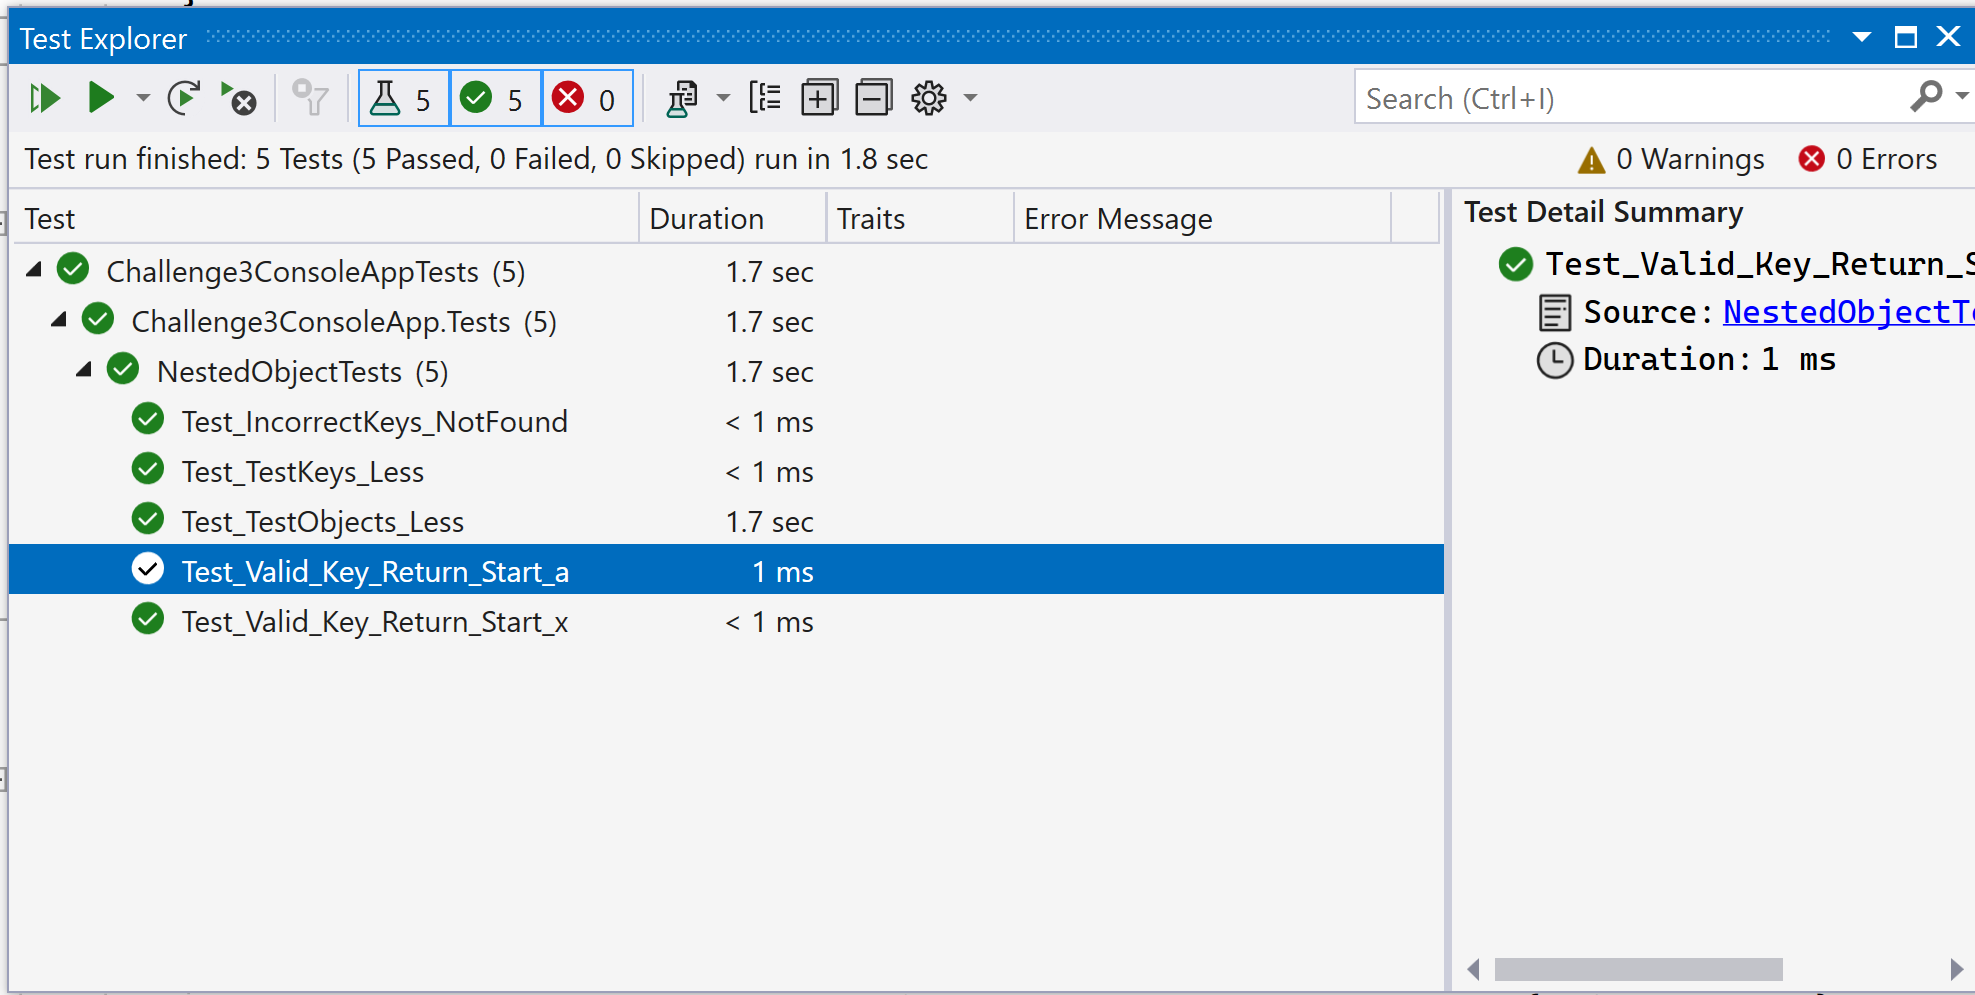
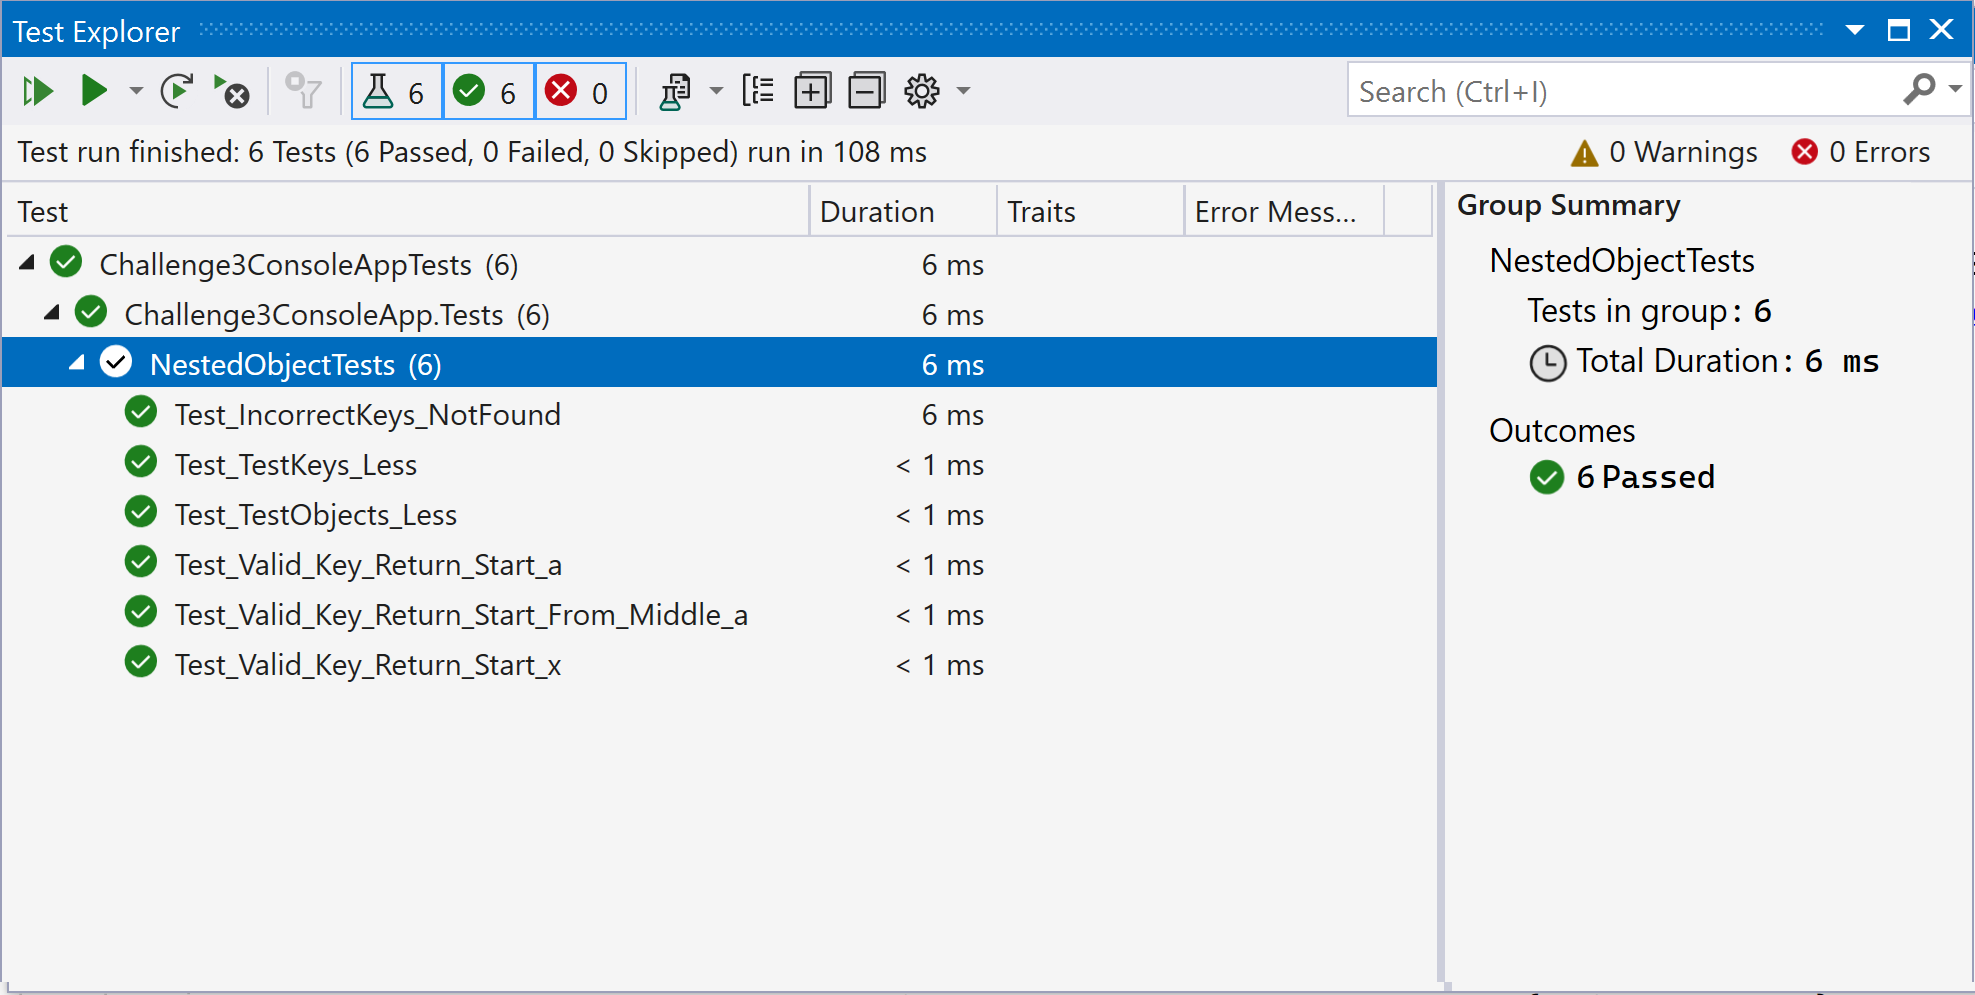
Result Images Added
Result Images Added By Santosh Raundhal

diff --git a/q3-nested-object-select/Challenge3ConsoleApp/NestedObjectTests.cs b/q3-nested-object-select/Challenge3ConsoleApp/NestedObjectTests.cs
@@ -1,0 +1,147 @@
+using Microsoft.VisualStudio.TestTools.UnitTesting;
+
+namespace Challenge3ConsoleApp.Tests
+{
+	[TestClass()]
+	public class NestedObjectTests
+	{
+		NestedObject _nestedObjectInstance;
+
+		[TestInitialize]
+		public void Initialize()
+		{
+			_nestedObjectInstance = new NestedObject();
+		}
+
+		#region "PRIVATE HELPER METHODS"
+		//Helper Methods To Create Test Objects Randomly.
+		private KeyValuePair<string, object> createTestObjects(char startChar, int count)
+		{
+			var currentChar = getLastObjectChar(startChar, count);
+			var key = currentChar.ToString();
+			var testObject = new KeyValuePair<string, object>();
+
+			//Start The Iterations From Backward
+			for (var i = count; i > 0; i--) 
+			{
+				//If This Is Last Object
+				if (i == count)
+					testObject = new KeyValuePair<string, object>(currentChar.ToString(), getNextChar(currentChar).ToString());
+				else
+					testObject = new KeyValuePair<string, object>(currentChar.ToString(), testObject);
+
+				currentChar = getPrevChar(currentChar);
+			}
+
+			return testObject;
+		}
+
+		private char getNextChar(char ch)
+		{
+			return (ch == 'z') ? 'a' : (char)((int)ch + 1);
+		}
+
+		private char getPrevChar(char ch)
+		{
+			return (ch == 'a') ? 'z' : (char)((int)ch - 1);
+		}
+
+		//This is Last But One Char
+		private char getLastObjectChar(char ch, int count)
+		{
+			//(char)((int)startChar + count - 1);
+			if (((int)ch + count - 1) > 122)
+			{
+				var remaining = 122 - ((int)ch + count - 1);
+				var charLast = 96 + Math.Abs(remaining);
+				return (char)charLast;
+			}
+
+			return (char)((int)ch + count - 1);
+		}
+
+		private string createTestKeys(char startChar, int count)
+		{
+			var keys = new List<string>();
+
+			var currentChar = startChar;
+			for (var i = 0; i < count; i++)
+			{
+				keys.Add(currentChar.ToString());
+				currentChar = getNextChar(currentChar);
+			}
+
+			return string.Join("/", keys).Trim();
+		}
+		#endregion
+
+		[TestMethod()]
+		public void Test_Valid_Key_Return_Start_a()
+		{
+			var objects = createTestObjects('a', 3);
+			var keys = createTestKeys('a', 3);
+
+			var searchKeyValue = _nestedObjectInstance.GetSearchKeyValue(objects, keys);
+
+			Assert.AreEqual(searchKeyValue, "d", "Valid Value d Should Be Returned.");
+		}
+
+		[TestMethod()]
+		public void Test_Valid_Key_Return_Start_x()
+		{
+			var objects = createTestObjects('x', 3);
+			var keys = createTestKeys('x', 3);
+
+			var searchKeyValue = _nestedObjectInstance.GetSearchKeyValue(objects, keys);
+
+			Assert.AreEqual(searchKeyValue, "a", "Valid Value a Should Be Returned.");
+		}
+
+		[TestMethod()]
+		public void Test_TestObjects_Less()
+		{
+			var objects = createTestObjects('a', 3);
+			var keys = createTestKeys('a', 5);
+
+			var searchKeyValue = _nestedObjectInstance.GetSearchKeyValue(objects, keys);
+
+			Assert.IsTrue(string.IsNullOrEmpty(searchKeyValue), "If Object and Key Count does not match, it should return Empty.");
+		}
+
+		[TestMethod()]
+		public void Test_TestKeys_Less()
+		{
+			var objects = createTestObjects('a', 5);
+			var keys = createTestKeys('a', 3);
+
+			var searchKeyValue = _nestedObjectInstance.GetSearchKeyValue(objects, keys);
+
+
+			Assert.IsFalse(string.IsNullOrEmpty(searchKeyValue), "If Object and Key Count does not match, it should return Empty.");
+		}
+
+		[TestMethod()]
+		public void Test_IncorrectKeys_NotFound()
+		{
+			var objects = createTestObjects('a', 4);
+			var keys = createTestKeys('x', 4);
+
+			var searchKeyValue = _nestedObjectInstance.GetSearchKeyValue(objects, keys);
+
+			//Assert.AreEqual(searchKeyValue, string.Empty);
+			Assert.IsTrue(string.IsNullOrEmpty(searchKeyValue), "If Incorrect Keys Provided, it should return Empty.");
+		}
+
+		[TestMethod()]
+		public void Test_Valid_Key_Return_Start_From_Middle_a()
+		{
+			var objects = createTestObjects('a', 5);
+			var keys = createTestKeys('c', 3);
+
+			var searchKeyValue = _nestedObjectInstance.GetSearchKeyValue(objects, keys);
+
+			Assert.AreEqual(searchKeyValue, "f", "Valid Value f Should Be Returned.");
+		}
+
+	}
+}

diff --git a/q3-nested-object-select/Challenge3ConsoleApp/NestedObject.cs b/q3-nested-object-select/Challenge3ConsoleApp/NestedObject.cs
@@ -39,12 +39,18 @@
 
 			var keyIndex = 0;
 			var currentObject = nestedObject;
+			var matchFoundStart = false;
 			while (keyIndex < keys.Length)
 			{
-				//If Keys Are Not Matching, Stop The Process
-				if (keys[keyIndex] != currentObject.Key)
+				//If We Found The First Key In The Objects, Mark It For The Match Start
+				if (keys[keyIndex] == currentObject.Key)
+					matchFoundStart = true;
+
+				//If Keys Are Not Matching After Match Start, Stop The Process
+				if (keys[keyIndex] != currentObject.Key && matchFoundStart)
 					break;
 
+				//If Keys Are Matching and Its Last Key Which We Are Looking For Then Thats Our Final Value
 				if (keys[keyIndex] == currentObject.Key && keyIndex == keys.Length-1)
 				{
 					searchKeyValue = currentObject.Value.ToString();
@@ -56,7 +62,8 @@
 				if (!(currentObject.Value is KeyValuePair<string, object>))
 					break;
 
-				keyIndex++;
+				if (matchFoundStart) 
+					keyIndex++;
 				currentObject = (KeyValuePair<string, object>)currentObject.Value;
 			}
 
